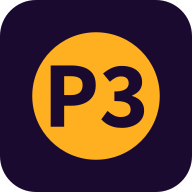
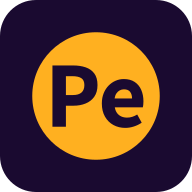
Rename brand from Pocket3D to Pocketey to match pocketey.com domain
- Update SITE.name in src/utils/site.ts and Twitter handle to @pocketey
- Replace Pocket3D copy in static pages (about/contact/privacy/terms) and locales
- Refactor about page title to 'About' to avoid 'About Pocketey — Pocketey' redundancy
- Update Header logo, RSS alternate title, manifest name/short_name
- Update icon glyph from 'P3' to 'Pe' in favicon.svg and gen-icons.mjs
- Regenerate icon-192/512, apple-touch-icon, og-default with new brand
- Update README references and Pages preview URL example

diff --git a/src/utils/site.ts b/src/utils/site.ts
@@ -3,7 +3,7 @@
  * Single source of truth for the site brand and URL.
  */
 export const SITE = {
-  name: "Pocket3D",
+  name: "Pocketey",
   tagline: "1-Minute 3D Browser Games",
   description:
     "Hand-crafted 3D browser games made for your phone. Tap, swipe, pop — every game runs portrait, in your browser, in under 3 minutes.",
@@ -11,7 +11,7 @@ export const SITE = {
     import.meta.env.PUBLIC_SITE_URL || "https://pocketey.com"
   ).replace(/\/$/, ""),
   defaultOgImage: "/og-default.png",
-  twitter: "@pocket3d",
+  twitter: "@pocketey",
   locale: "en",
 } as const;
 

diff --git a/README.md b/README.md
@@ -1,6 +1,6 @@
-# Pocket3D — Portal
+# Pocketey — Portal
 
-The Astro-built portal site for Pocket3D. Hosts game listings, detail pages,
+The Astro-built portal site for Pocketey. Hosts game listings, detail pages,
 blog and AdSense-required static pages. Each game lives in its own repo at
 `../games/<slug>/` and is brought in via `scripts/import-game.mjs`.
 
@@ -71,7 +71,7 @@ both Preview and Production.
    owned elsewhere — see "Using an external registrar" below.
 2. **Create a GitHub repo** (private or public). From this directory:
    ```powershell
-   git remote add origin https://github.com/<your-user>/pocket3d-portal.git
+   git remote add origin https://github.com/<your-user>/pocketey-portal.git
    git push -u origin main
    ```
 3. **Create the Cloudflare Pages project**: dashboard →
